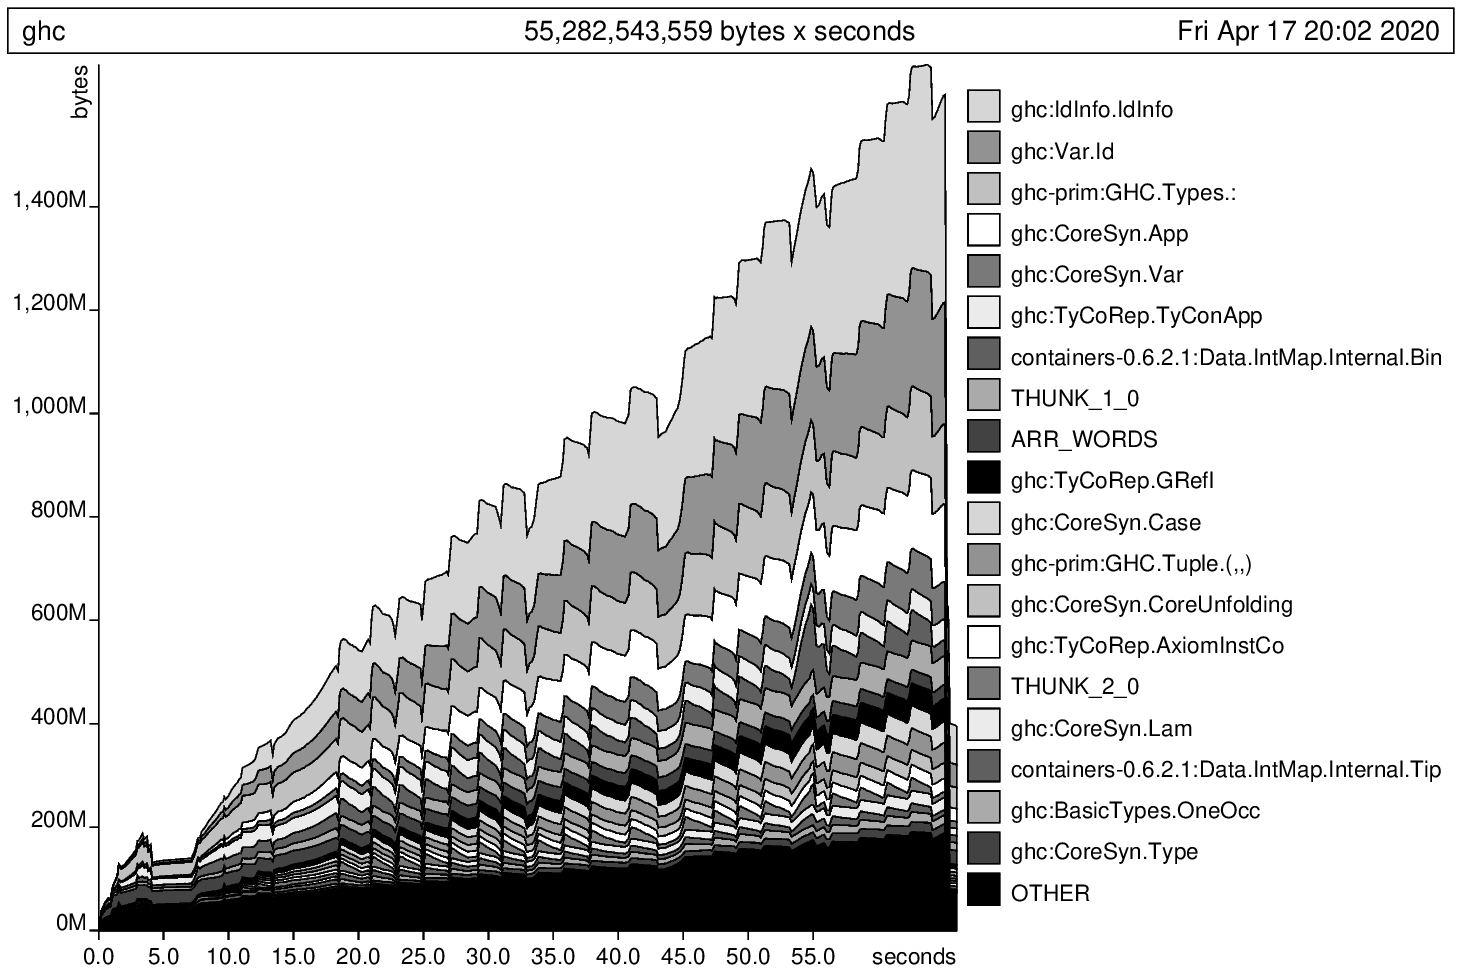
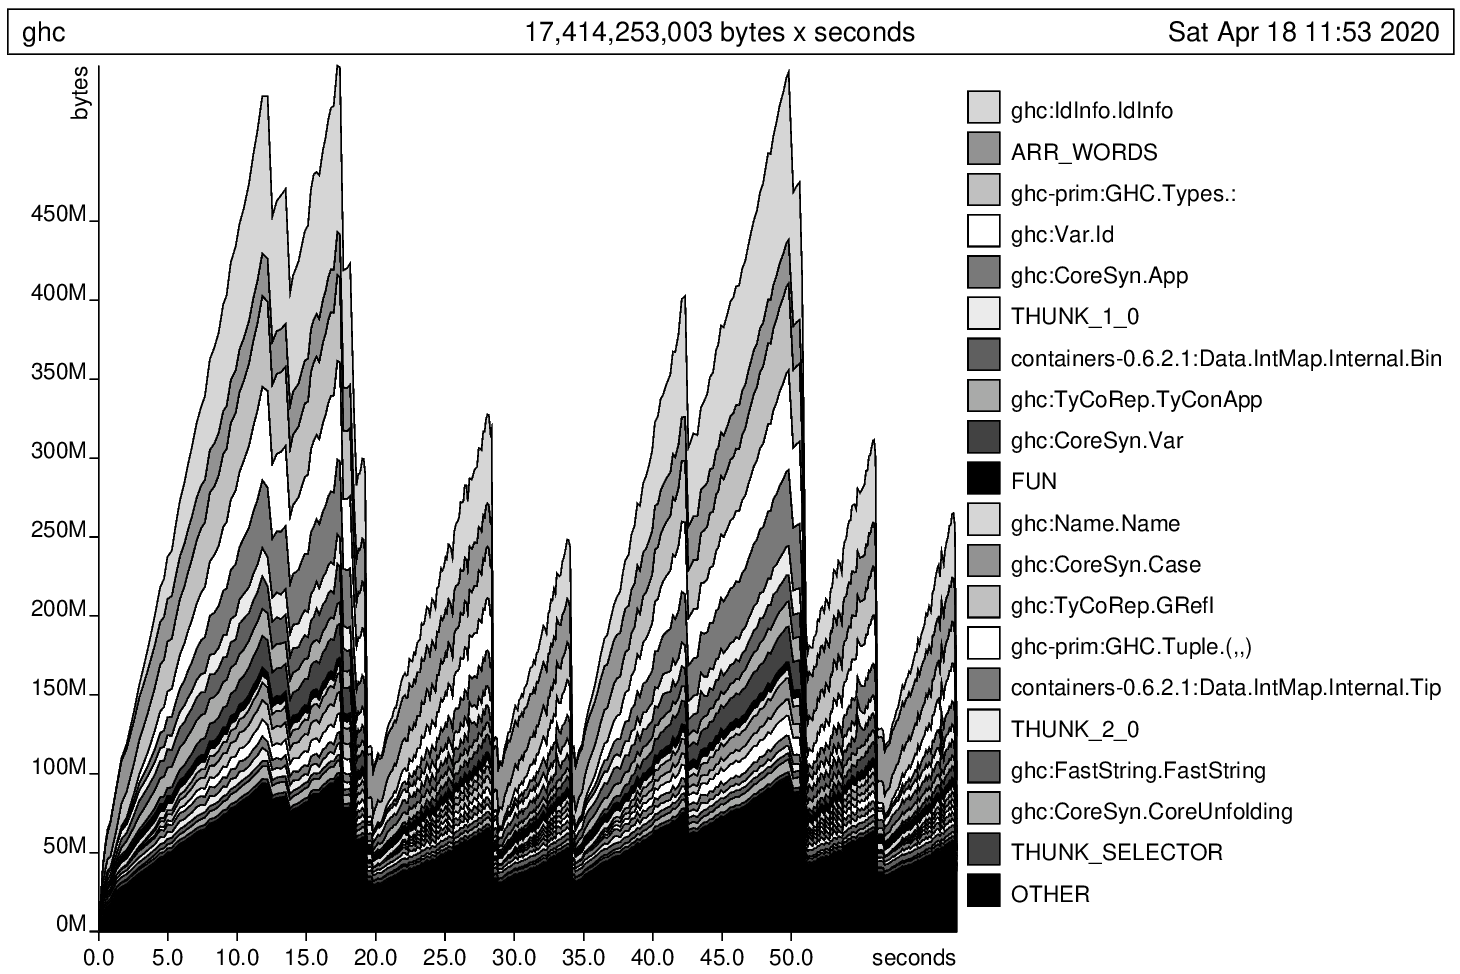
Add new heap images

diff --git a/README.md b/README.md
@@ -1,3 +1,9 @@
+## Short Version
+
+`ghc` seems to use 25-30% more memory when using `-XDerivingVia` instead
+of explicit instances using `Generic`. I'm not sure if this is just the
+cost of using `-XDerivinVia`, or if there's something strange happening.
+
 ## -XNoDerivingVia GC Stats
 
 ```plaintext
@@ -31,31 +37,31 @@
 ## -XNoDerivingVia GC Stats with -h
 
 ```plaintext
-  65,263,743,936 bytes allocated in the heap
- 241,523,316,616 bytes copied during GC
-   1,093,642,496 bytes maximum residency (435 sample(s))
-      10,806,584 bytes maximum slop
-            1042 MB total memory in use (0 MB lost due to fragmentation)
+  63,538,981,352 bytes allocated in the heap
+  56,949,032,704 bytes copied during GC
+     424,328,720 bytes maximum residency (290 sample(s))
+       6,232,664 bytes maximum slop
+             404 MB total memory in use (0 MB lost due to fragmentation)
 
                                      Tot time (elapsed)  Avg pause  Max pause
-  Gen  0      2229 colls,  2192 par   142.943s  23.194s     0.0104s    0.1554s
-  Gen  1       435 colls,   430 par   1997.415s  172.001s     0.3954s    0.8719s
+  Gen  0      3312 colls,  3258 par   134.241s  20.660s     0.0062s    0.0528s
+  Gen  1       290 colls,   285 par   432.273s  37.178s     0.1282s    0.3101s
 
-  Parallel GC work balance: 95.49% (serial 0%, perfect 100%)
+  Parallel GC work balance: 86.77% (serial 0%, perfect 100%)
 
   TASKS: 38 (1 bound, 37 peak workers (37 total), using -N12)
 
   SPARKS: 0 (0 converted, 0 overflowed, 0 dud, 0 GC'd, 0 fizzled)
 
-  INIT    time    0.000s  (  0.001s elapsed)
-  MUT     time   45.510s  ( 42.142s elapsed)
-  GC      time  2140.358s  (195.195s elapsed)
-  EXIT    time    0.004s  (  0.003s elapsed)
-  Total   time  2185.872s  (237.340s elapsed)
+  INIT    time    0.000s  (  0.000s elapsed)
+  MUT     time   46.477s  ( 29.158s elapsed)
+  GC      time  566.515s  ( 57.838s elapsed)
+  EXIT    time    0.003s  (  0.004s elapsed)
+  Total   time  612.995s  ( 87.000s elapsed)
 
-  Alloc rate    1,434,044,786 bytes per MUT second
+  Alloc rate    1,367,096,849 bytes per MUT second
 
-  Productivity   2.1% of total user, 17.8% of total elapsed
+  Productivity   7.6% of total user, 33.5% of total elapsed
 ```
 
 ![no-deriving-via-heap.png](images/no-deriving-via-heap.png)
@@ -94,31 +100,31 @@
 ## -XDerivingVia GC Stats with -h
 
 ```plaintext
-  98,836,106,608 bytes allocated in the heap
- 505,964,462,096 bytes copied during GC
-   1,685,746,768 bytes maximum residency (628 sample(s))
-      14,393,736 bytes maximum slop
-            1607 MB total memory in use (0 MB lost due to fragmentation)
+  88,005,877,296 bytes allocated in the heap
+  97,338,035,968 bytes copied during GC
+     550,109,160 bytes maximum residency (392 sample(s))
+       7,540,568 bytes maximum slop
+             524 MB total memory in use (0 MB lost due to fragmentation)
 
                                      Tot time (elapsed)  Avg pause  Max pause
-  Gen  0      4060 colls,  4023 par   190.524s  30.964s     0.0076s    0.1490s
-  Gen  1       628 colls,   623 par   4265.310s  373.021s     0.5940s    1.3825s
+  Gen  0      3830 colls,  3773 par   179.435s  27.657s     0.0072s    0.0709s
+  Gen  1       392 colls,   387 par   758.008s  64.808s     0.1653s    0.3934s
 
-  Parallel GC work balance: 95.98% (serial 0%, perfect 100%)
+  Parallel GC work balance: 89.50% (serial 0%, perfect 100%)
 
-  TASKS: 37 (1 bound, 36 peak workers (36 total), using -N12)
+  TASKS: 38 (1 bound, 37 peak workers (37 total), using -N12)
 
   SPARKS: 0 (0 converted, 0 overflowed, 0 dud, 0 GC'd, 0 fizzled)
 
   INIT    time    0.000s  (  0.001s elapsed)
-  MUT     time   68.136s  ( 61.394s elapsed)
-  GC      time  4455.835s  (403.985s elapsed)
-  EXIT    time    0.000s  (  0.001s elapsed)
-  Total   time  4523.971s  (465.380s elapsed)
+  MUT     time   62.316s  ( 39.481s elapsed)
+  GC      time  937.443s  ( 92.465s elapsed)
+  EXIT    time    0.004s  (  0.004s elapsed)
+  Total   time  999.763s  (131.950s elapsed)
 
-  Alloc rate    1,450,566,564 bytes per MUT second
+  Alloc rate    1,412,255,717 bytes per MUT second
 
-  Productivity   1.5% of total user, 13.2% of total elapsed
+  Productivity   6.2% of total user, 29.9% of total elapsed
 ```
 
 ![deriving-via-heap.png](images/deriving-via-heap.png)

diff --git a/base.md b/base.md
@@ -31,31 +31,31 @@
 ## -XNoDerivingVia GC Stats with -h
 
 ```plaintext
-  65,263,743,936 bytes allocated in the heap
- 241,523,316,616 bytes copied during GC
-   1,093,642,496 bytes maximum residency (435 sample(s))
-      10,806,584 bytes maximum slop
-            1042 MB total memory in use (0 MB lost due to fragmentation)
+  63,538,981,352 bytes allocated in the heap
+  56,949,032,704 bytes copied during GC
+     424,328,720 bytes maximum residency (290 sample(s))
+       6,232,664 bytes maximum slop
+             404 MB total memory in use (0 MB lost due to fragmentation)
 
                                      Tot time (elapsed)  Avg pause  Max pause
-  Gen  0      2229 colls,  2192 par   142.943s  23.194s     0.0104s    0.1554s
-  Gen  1       435 colls,   430 par   1997.415s  172.001s     0.3954s    0.8719s
+  Gen  0      3312 colls,  3258 par   134.241s  20.660s     0.0062s    0.0528s
+  Gen  1       290 colls,   285 par   432.273s  37.178s     0.1282s    0.3101s
 
-  Parallel GC work balance: 95.49% (serial 0%, perfect 100%)
+  Parallel GC work balance: 86.77% (serial 0%, perfect 100%)
 
   TASKS: 38 (1 bound, 37 peak workers (37 total), using -N12)
 
   SPARKS: 0 (0 converted, 0 overflowed, 0 dud, 0 GC'd, 0 fizzled)
 
-  INIT    time    0.000s  (  0.001s elapsed)
-  MUT     time   45.510s  ( 42.142s elapsed)
-  GC      time  2140.358s  (195.195s elapsed)
-  EXIT    time    0.004s  (  0.003s elapsed)
-  Total   time  2185.872s  (237.340s elapsed)
+  INIT    time    0.000s  (  0.000s elapsed)
+  MUT     time   46.477s  ( 29.158s elapsed)
+  GC      time  566.515s  ( 57.838s elapsed)
+  EXIT    time    0.003s  (  0.004s elapsed)
+  Total   time  612.995s  ( 87.000s elapsed)
 
-  Alloc rate    1,434,044,786 bytes per MUT second
+  Alloc rate    1,367,096,849 bytes per MUT second
 
-  Productivity   2.1% of total user, 17.8% of total elapsed
+  Productivity   7.6% of total user, 33.5% of total elapsed
 ```
 
 ![no-deriving-via-heap.png](images/no-deriving-via-heap.png)
@@ -94,31 +94,31 @@
 ## -XDerivingVia GC Stats with -h
 
 ```plaintext
-  98,836,106,608 bytes allocated in the heap
- 505,964,462,096 bytes copied during GC
-   1,685,746,768 bytes maximum residency (628 sample(s))
-      14,393,736 bytes maximum slop
-            1607 MB total memory in use (0 MB lost due to fragmentation)
+  88,005,877,296 bytes allocated in the heap
+  97,338,035,968 bytes copied during GC
+     550,109,160 bytes maximum residency (392 sample(s))
+       7,540,568 bytes maximum slop
+             524 MB total memory in use (0 MB lost due to fragmentation)
 
                                      Tot time (elapsed)  Avg pause  Max pause
-  Gen  0      4060 colls,  4023 par   190.524s  30.964s     0.0076s    0.1490s
-  Gen  1       628 colls,   623 par   4265.310s  373.021s     0.5940s    1.3825s
+  Gen  0      3830 colls,  3773 par   179.435s  27.657s     0.0072s    0.0709s
+  Gen  1       392 colls,   387 par   758.008s  64.808s     0.1653s    0.3934s
 
-  Parallel GC work balance: 95.98% (serial 0%, perfect 100%)
+  Parallel GC work balance: 89.50% (serial 0%, perfect 100%)
 
-  TASKS: 37 (1 bound, 36 peak workers (36 total), using -N12)
+  TASKS: 38 (1 bound, 37 peak workers (37 total), using -N12)
 
   SPARKS: 0 (0 converted, 0 overflowed, 0 dud, 0 GC'd, 0 fizzled)
 
   INIT    time    0.000s  (  0.001s elapsed)
-  MUT     time   68.136s  ( 61.394s elapsed)
-  GC      time  4455.835s  (403.985s elapsed)
-  EXIT    time    0.000s  (  0.001s elapsed)
-  Total   time  4523.971s  (465.380s elapsed)
+  MUT     time   62.316s  ( 39.481s elapsed)
+  GC      time  937.443s  ( 92.465s elapsed)
+  EXIT    time    0.004s  (  0.004s elapsed)
+  Total   time  999.763s  (131.950s elapsed)
 
-  Alloc rate    1,450,566,564 bytes per MUT second
+  Alloc rate    1,412,255,717 bytes per MUT second
 
-  Productivity   1.5% of total user, 13.2% of total elapsed
+  Productivity   6.2% of total user, 29.9% of total elapsed
 ```
 
 ![deriving-via-heap.png](images/deriving-via-heap.png)
